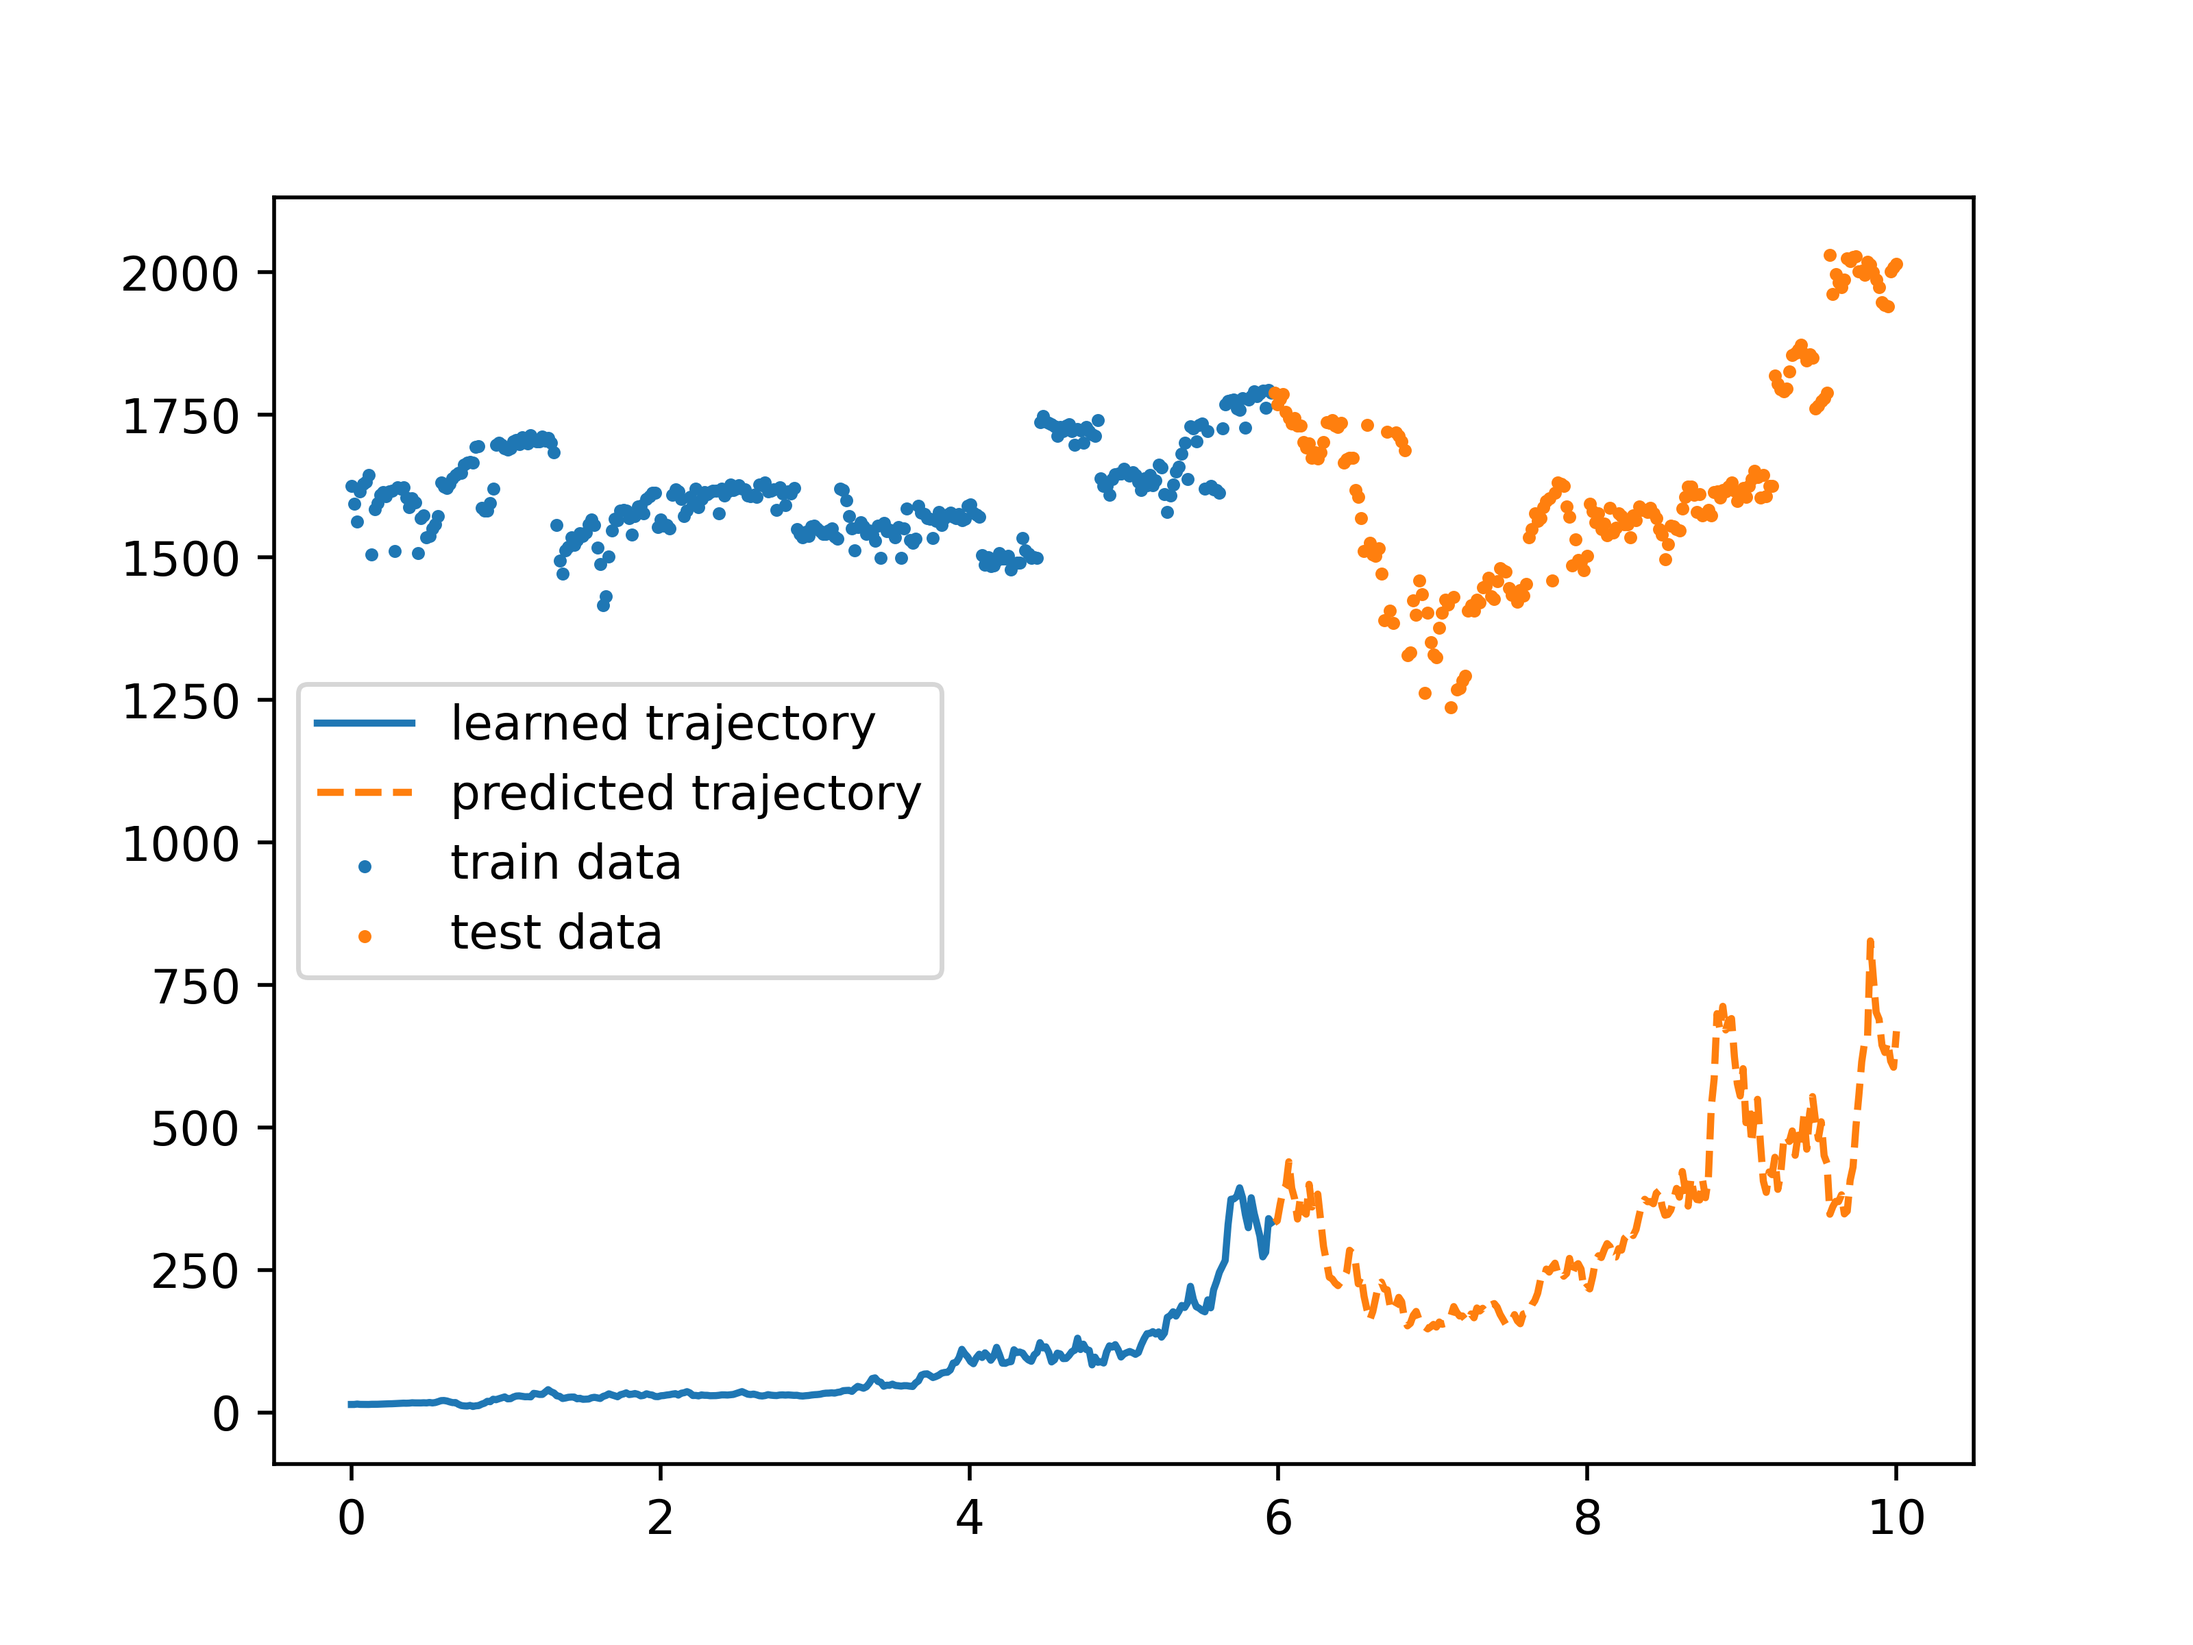
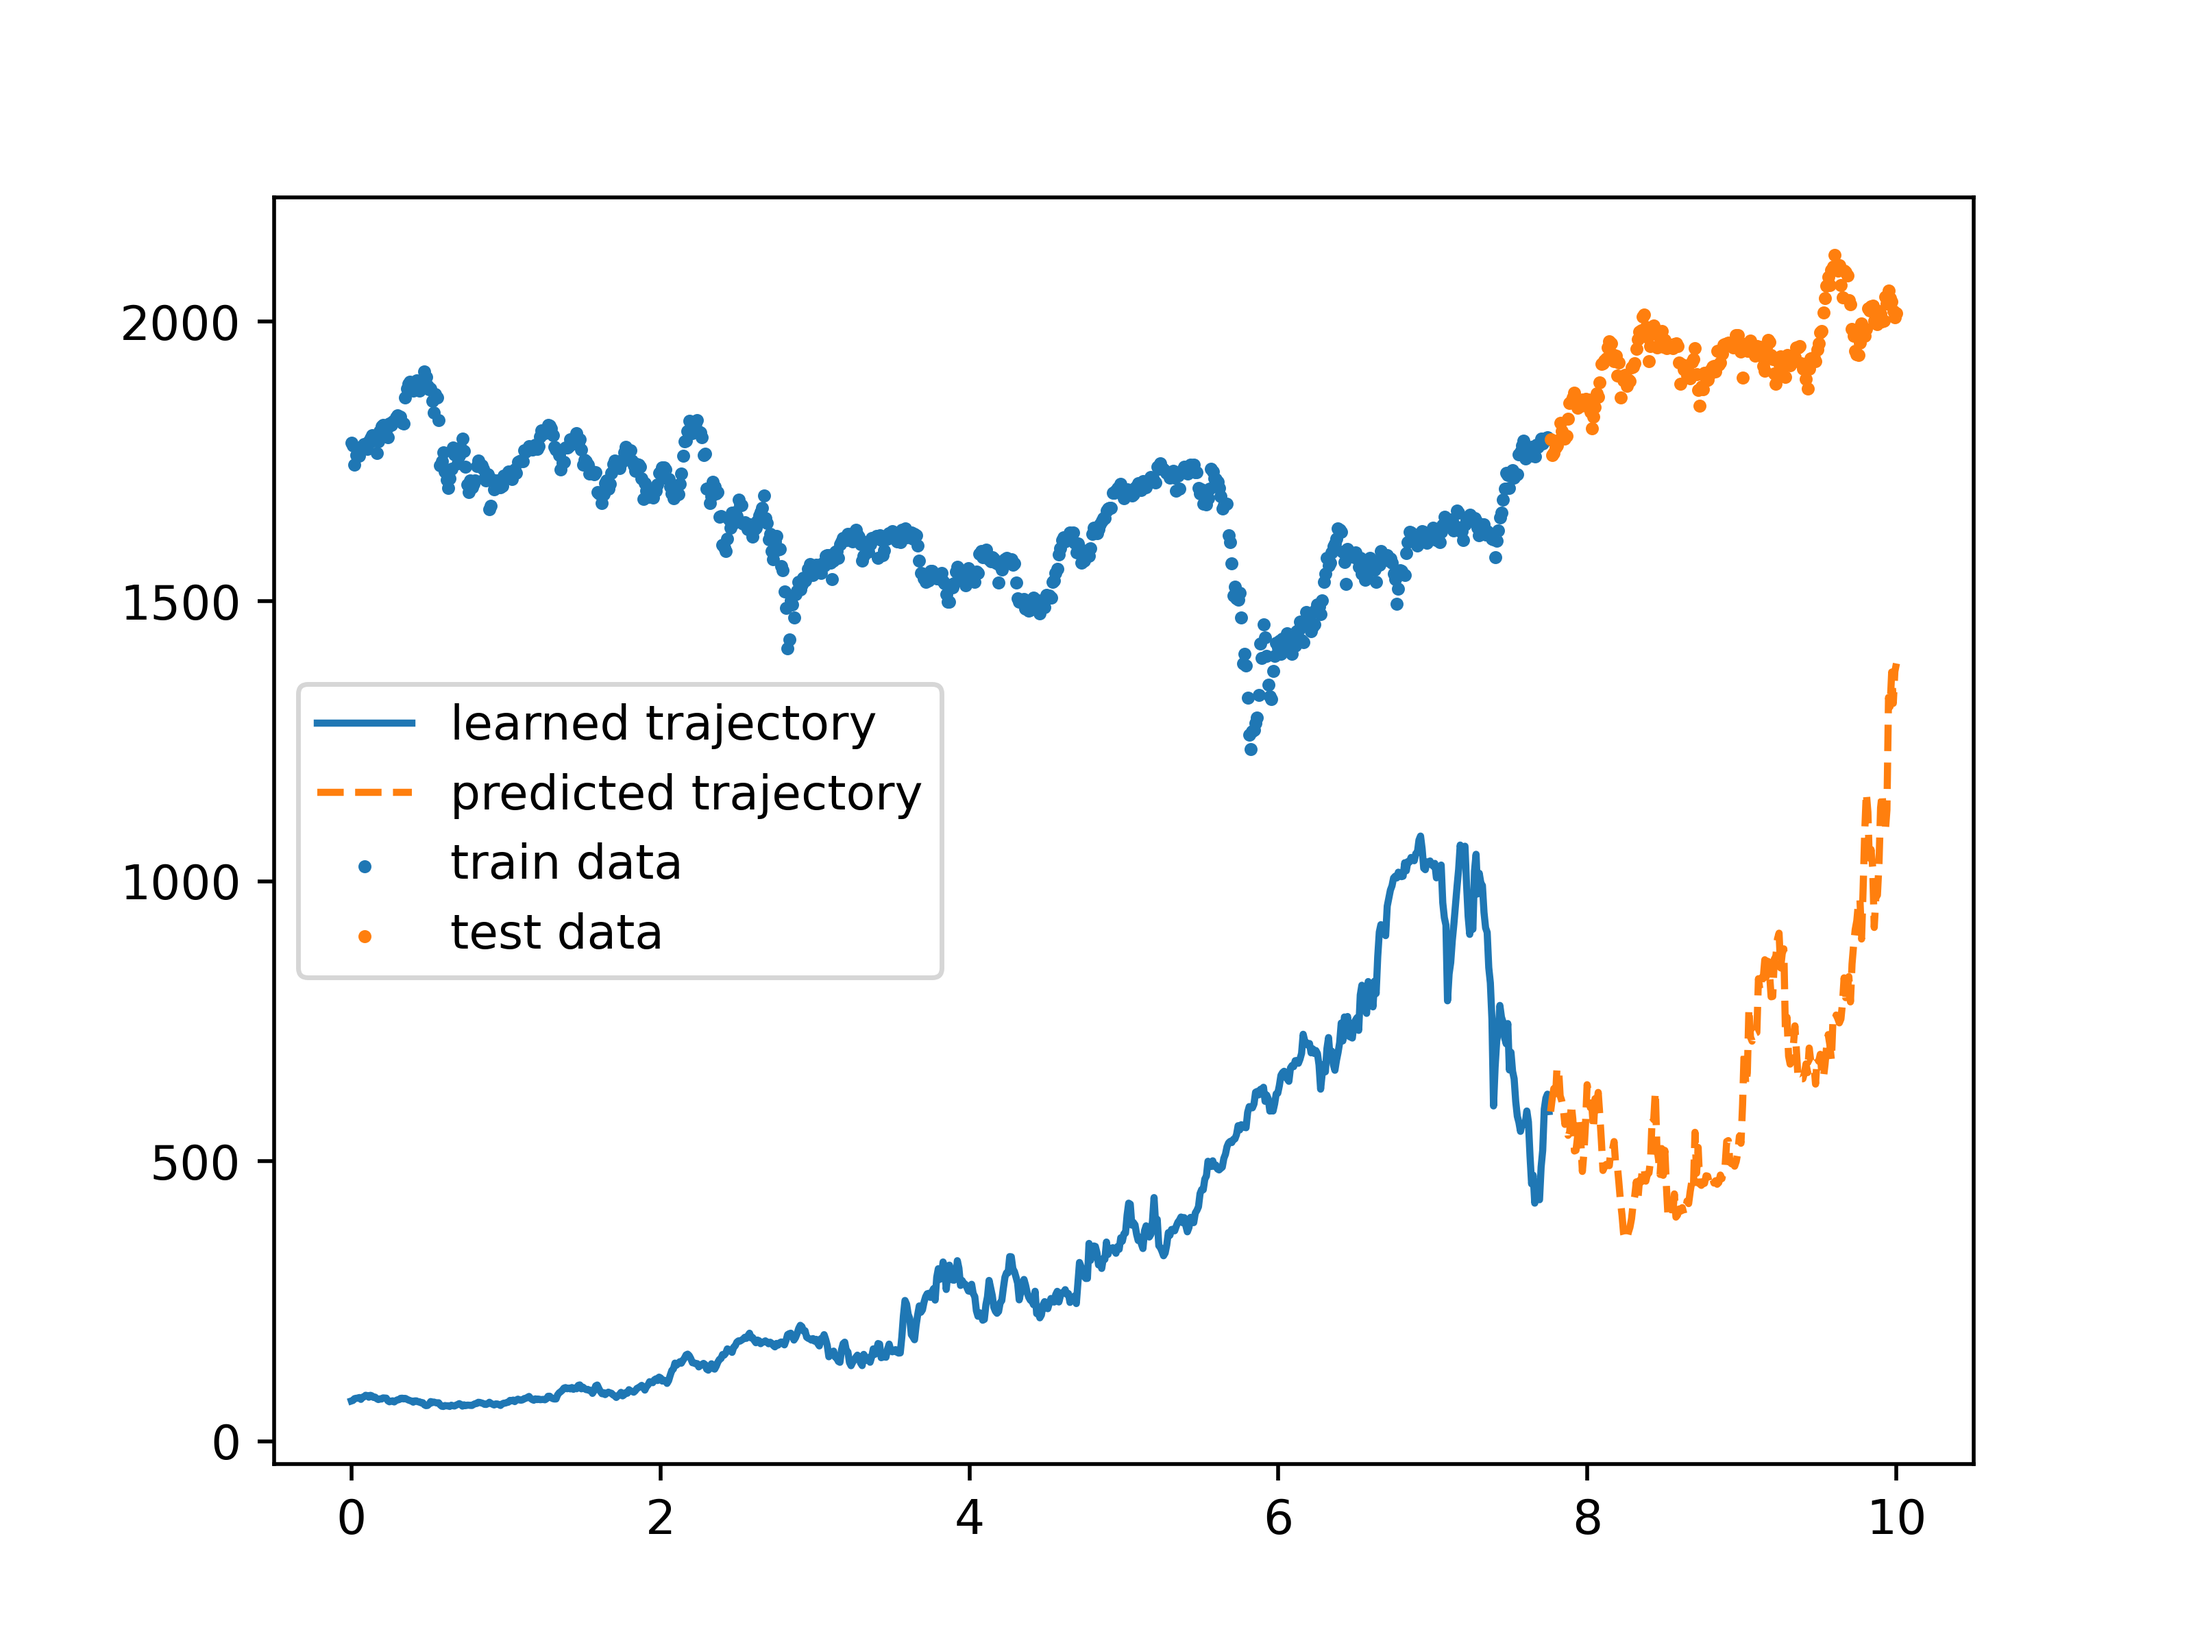
Histogram visualization has been implemented.

diff --git a/data.py b/data.py
@@ -88,15 +88,15 @@ def generate_spiral2d(nspiral=2,
     #samp_trajs = data1.values
     #print(orig_trajs.shape)
     print(samp_trajs.shape)
-    #print(orig_trajs)
     print(samp_trajs)
-    #plt.plot(samp_ts, samp_trajs[1])
     plt.scatter(samp_trajs[0], samp_trajs[1])
     plt.show()
 
     return samp_trajs, orig_ts, samp_ts
 
 #generate_spiral2d()
+
+
 
 
 
@@ -125,16 +125,22 @@ def get_TOPIX_data(batch_dim=10,
       third element is timestamps of size (ntotal,),
       and fourth element is timestamps of size (nsample,)
     """
-    train_start = "2019/1/3"
+    train_start = "2018/1/2"
     train_end = "2020/12/31"
-    test_start = train_end #"2021/1/3"
+    test_start = "2020/12/31" #"2021/1/3"
     test_end = "2021/11/11"
     data = pd.read_csv("data.csv", index_col="Date")
-    data = data.sort_values("Date")
-    data = data["TPX"]
-    orig_data = data.loc[train_start:test_end]
+    data = data[["TPX"]]
+    orig_data = data.loc[test_end:train_start]
+    data = data.iloc[::-1]
+    #print(data)
+    #data = data.sort_values("Date")
     train_data = data.loc[train_start:train_end].values 
     test_data = data.loc[test_start:test_end].values
+    #train_data = data.loc[train_end:train_start]
+    #print(train_data)
+    #test_data = data.loc[test_end:test_start].values
+    
     ntotal = orig_data.size + 1
     ntrain = train_data.size
     ntest = test_data.size
@@ -170,7 +176,7 @@ def get_TOPIX_data(batch_dim=10,
     # batching for sample trajectories is good for RNN; batching for original
     # trajectories only for ease of indexing
     #orig_trajs = np.stack(orig_trajs, axis=0)
-    sample_trajs = np.stack(sample_trajs, axis=0)
+    sample_trajs = np.stack(sample_trajs, axis=0).reshape(batch_dim, -1)
     """
     plt.scatter(train_ts, train_data, label="train", s=3)
     plt.scatter(test_ts, test_data, label="test", s=3)
@@ -179,11 +185,22 @@ def get_TOPIX_data(batch_dim=10,
     """
     return sample_trajs, train_data, test_data, train_ts, test_ts
 
+#sample_trajs, train_data, test_data, train_ts, test_ts = get_TOPIX_data()
+#print(sample_trajs.shape)
+
+
 
 def data_plot():
     data = data = pd.read_csv("data.csv", index_col="Date")
-    data = data[["TPX", "SPX", "SX5E"]]
-    data = data.sort_values("Date").loc["1987/1/3":"2021/11/11"]
+    #data = data[["TPX", "SPX", "SX5E"]]
+    data = data[["TPX"]]
+    #data = data.sort_values("Date").loc["1987/1/2":"2021/11/11"]
+    #data = data.sort_values("Date").loc["2021/1/3":"2021/11/11"]
+    #data = data.loc["2020/1/3":"1987/1/2"]
+    data = data.loc["2021/11/11":"2018/1/2"]
+    data = data.iloc[::-1]
+    #data.sort_values("Date")
+    
     #data = data.values
     #print(type(data))
     #print(data)

diff --git a/train_fSDE.py b/train_fSDE.py
@@ -16,7 +16,7 @@ import torch.nn.functional as F
 from neural_net import LatentODEfunc, RecognitionRNN, Decoder
 from neural_net import LatentSDEfunc, state_size, batch_size
 from utils import log_normal_pdf, normal_kl
-
+from plots import plot_path, plot_hist
 
 parser = argparse.ArgumentParser()
 parser.add_argument('--adjoint', type=eval, default=False)
@@ -65,8 +65,8 @@ if __name__ == '__main__':
     rnn_nhidden = 25
     obs_dim = 1
 
-    start = 0.
-    stop = 1.
+    #start = 0.
+    #stop = 1.
     noise_std = 0.1
     
     device = torch.device('cuda:' + str(args.gpu)
@@ -75,11 +75,7 @@ if __name__ == '__main__':
     # generate TOPIX data
     from data import get_TOPIX_data
     sample_trajs, train_data, test_data, train_ts, test_ts = get_TOPIX_data(
-        batch_dim=batch_dim,
-        start=start,
-        stop=stop,
-        noise_std=noise_std
-    )
+        batch_dim=batch_dim)
     sample_trajs = torch.from_numpy(sample_trajs).float().to(device)
     train_ts = torch.from_numpy(train_ts).float().to(device)
     test_ts = torch.from_numpy(test_ts).float().to(device)
@@ -182,18 +178,10 @@ if __name__ == '__main__':
         xs_learn = xs_learn.cpu().numpy()
         xs_pred = xs_pred.cpu().numpy()
 
-        plt.figure()
-        plt.plot(train_ts, xs_learn, #'r',
-                 label='learned trajectory')
-        plt.plot(test_ts, xs_pred, #'r',
-                 label='predicted trajectory', ls="--")
+        plot_path(train_ts, xs_learn, test_ts, xs_pred, train_data, test_data, './vis_fSDE.png')
+        plot_hist(xs_learn, train_data, "./hist_fSDE.png")
         
-        plt.scatter(train_ts, train_data, label='train data', s=3)
-        plt.scatter(test_ts, test_data, label='test data', s=3)
-        plt.legend()
-        plt.savefig('./vis_fSDE.png', dpi=500)
-        print('Saved visualization figure at {}'.format('./vis_fSDE.png'))
-    
+
 
 
 """

diff --git a/train_ODE.py b/train_ODE.py
@@ -15,6 +15,7 @@ import torch.nn.functional as F
 
 from neural_net import LatentODEfunc, RecognitionRNN, Decoder, state_size, batch_size
 from utils import log_normal_pdf, normal_kl
+from plots import plot_path, plot_hist
 
 
 parser = argparse.ArgumentParser()
@@ -62,7 +63,7 @@ if __name__ == '__main__':
 
     batch_dim = batch_size
     start = 0.
-    stop = 1.
+    stop = 10
     noise_std = 0.1
     
     device = torch.device('cuda:' + str(args.gpu)
@@ -71,11 +72,7 @@ if __name__ == '__main__':
     # generate TOPIX data
     from data import get_TOPIX_data
     sample_trajs, train_data, test_data, train_ts, test_ts = get_TOPIX_data(
-        batch_dim=batch_dim,
-        start=start,
-        stop=stop,
-        noise_std=noise_std
-    )
+        batch_dim=batch_dim)
     sample_trajs = torch.from_numpy(sample_trajs).float().to(device)
     train_ts = torch.from_numpy(train_ts).float().to(device)
     test_ts = torch.from_numpy(test_ts).float().to(device)
@@ -173,6 +170,11 @@ if __name__ == '__main__':
         xs_learn = xs_learn.cpu().numpy()
         xs_pred = xs_pred.cpu().numpy()
 
+        plot_path(train_ts, xs_learn, test_ts, xs_pred, train_data, test_data, './vis_ODE.png')
+        plot_hist(xs_learn, train_data, "./hist_ODE.png")
+
+
+"""
         plt.figure()
         plt.plot(train_ts, xs_learn, #'r',
                  label='learned trajectory')
@@ -184,5 +186,5 @@ if __name__ == '__main__':
         plt.legend()
         plt.savefig('./vis_ODE.png', dpi=500)
         print('Saved visualization figure at {}'.format('./vis_ODE.png'))
-    
+"""    
 

diff --git a/train_SDE.py b/train_SDE.py
@@ -16,6 +16,7 @@ import torch.nn.functional as F
 from neural_net import LatentODEfunc, RecognitionRNN, Decoder
 from neural_net import LatentSDEfunc, state_size, batch_size
 from utils import log_normal_pdf, normal_kl
+from plots import plot_path, plot_hist
 
 
 parser = argparse.ArgumentParser()
@@ -64,7 +65,7 @@ if __name__ == '__main__':
 
     batch_dim = batch_size
     start = 0.
-    stop = 1.
+    stop = 10
     noise_std = 0.1
     
     device = torch.device('cuda:' + str(args.gpu)
@@ -74,10 +75,6 @@ if __name__ == '__main__':
     from data import get_TOPIX_data
     sample_trajs, train_data, test_data, train_ts, test_ts = get_TOPIX_data(
         batch_dim=batch_dim)
-#        start=start,
-#        stop=stop,
-#        noise_std=noise_std
-#    )
     sample_trajs = torch.from_numpy(sample_trajs).float().to(device)
     train_ts = torch.from_numpy(train_ts).float().to(device)
     test_ts = torch.from_numpy(test_ts).float().to(device)
@@ -180,6 +177,13 @@ if __name__ == '__main__':
         xs_learn = xs_learn.cpu().numpy()
         xs_pred = xs_pred.cpu().numpy()
 
+        plot_path(train_ts, xs_learn, test_ts, xs_pred, train_data, test_data, './vis_SDE.png')
+        plot_hist(xs_learn, train_data, "./hist_SDE.png")
+
+
+
+
+"""
         plt.figure()
         plt.plot(train_ts, xs_learn, #'r',
                  label='learned trajectory')
@@ -191,7 +195,7 @@ if __name__ == '__main__':
         plt.legend()
         plt.savefig('./vis_SDE.png', dpi=500)
         print('Saved visualization figure at {}'.format('./vis_SDE.png'))
-    
+"""    
 
 
 """

diff --git a/neural_net.py b/neural_net.py
@@ -4,6 +4,7 @@ import torch
 import torch.nn as nn
 
 class LatentODEfunc(nn.Module):
+
     def __init__(self, latent_dim=4, nhidden=20):
         super(LatentODEfunc, self).__init__()
         self.elu = nn.ELU(inplace=True)
@@ -11,6 +12,7 @@ class LatentODEfunc(nn.Module):
         self.fc2 = nn.Linear(nhidden, nhidden)
         self.fc3 = nn.Linear(nhidden, latent_dim)
         self.nfe = 0
+
     def forward(self, t, x):
         self.nfe += 1
         out = self.fc1(x)
@@ -32,13 +34,16 @@ class RecognitionRNN(nn.Module):
         self.nbatch = nbatch
         self.i2h = nn.Linear(obs_dim + nhidden, nhidden)
         self.h2o = nn.Linear(nhidden, latent_dim * 2)
+
     def forward(self, x, h):
         combined = torch.cat((x, h), dim=1)
         h = torch.tanh(self.i2h(combined))
         out = self.h2o(h)
         return out, h
+
     def initHidden(self):
         return torch.zeros(self.nbatch, self.nhidden)
+
 
 
 class Decoder(nn.Module):
@@ -81,8 +86,11 @@ class LatentFSDEfunc(nn.Module):
 
     def drift(t, y):
         y = torch.from_numpy(y).float()
-        func = nn.Linear(state_size, state_size)
-        out = func(y)
+        func_1 = nn.Linear(state_size, state_size)
+        func_2 = nn.Tanh()
+        out = func_1(y)
+        out = func_2(out)
+        out = func_1(out)
         out = out.detach().numpy()
         return out  
 

diff --git a/plots.py b/plots.py
@@ -1,0 +1,24 @@
+import matplotlib.pyplot as plt
+import numpy as np
+
+
+def plot_path(train_ts, xs_learn, test_ts, xs_pred, train_data, test_data, path):
+    plt.figure()
+    plt.plot(train_ts, xs_learn, #'r',
+             label='learned trajectory')
+    plt.plot(test_ts, xs_pred, #'r',
+             label='predicted trajectory', ls="--")
+    plt.scatter(train_ts, train_data, label='train data', s=3)
+    plt.scatter(test_ts, test_data, label='test data', s=3)
+    plt.legend()
+    plt.savefig(path, dpi=500)
+    print('Saved visualization figure at {}'.format(path))
+
+
+def plot_hist(xs_learn, train_data, path):
+    plt.figure()
+    plt.hist(np.diff(xs_learn.reshape(-1)), alpha=0.7, bins=50, label='learned data')
+    plt.hist(np.diff(train_data.reshape(-1)), alpha=0.5, bins=50, label='real data')  
+    plt.legend()
+    plt.savefig(path, dpi=500)
+    print('Saved visualization figure at {}'.format(path))

diff --git a/fsde_solver.py b/fsde_solver.py
@@ -64,9 +64,25 @@ def experiment():
     print(y, y.size())
     y= y.detach().numpy().copy()
     
-    plt.plot(ts, y[0,:,1], label="solution")
-    plt.legend()
+    #plt.plot(ts, y[0,:,1], label="solution")
+    #plt.legend()
+    #plt.show()
+    plt.hist(y[0,:,0], bins=50, color='red')
+    plt.hist(y[0,:,1], bins=50, color='blue')
     plt.show()
+    """
+    fig = plt.figure()
+    ax = fig.add_subplot(1,1,1)
+
+    ax.hist(y[0,:,1], color='red')
+    ax.hist(y[0,:,1], color='blue')
+    ax.set_title('fifth histogram')
+    ax.set_xlabel('x')
+    ax.set_ylabel('freq')
+    ax.set_ylim(0, 0.1)
+    fig.show()
+    """
+
 
 #experiment()
 
